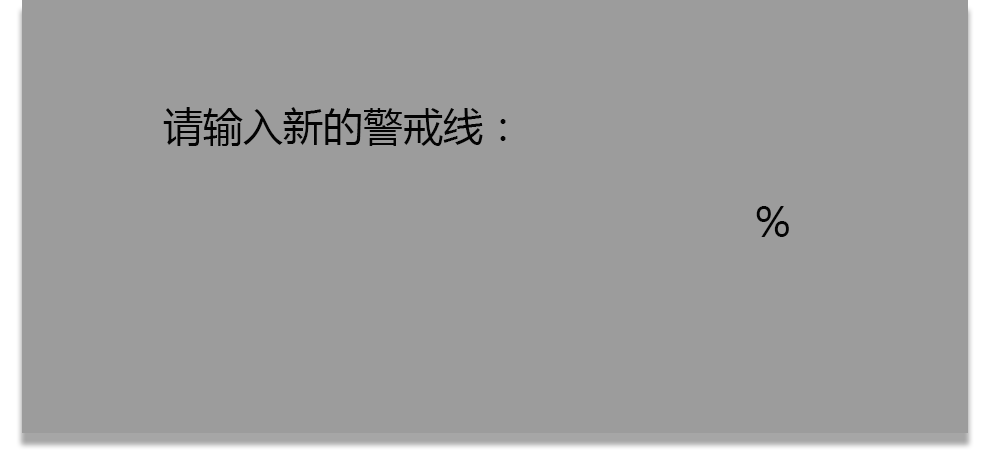
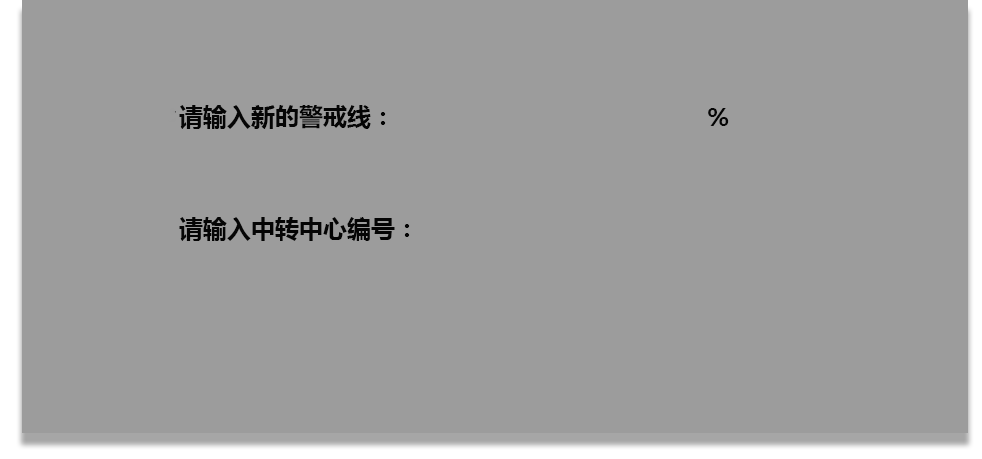
为了同步高露的

diff --git a/LogisticManageSystem/Client/src/main/java/edu/nju/lms/presentation/mouseListener/SetWarningListener.java b/LogisticManageSystem/Client/src/main/java/edu/nju/lms/presentation/mouseListener/SetWarningListener.java
@@ -1,0 +1,33 @@
+package edu.nju.lms.presentation.mouseListener;
+
+import java.awt.Component;
+import java.awt.event.MouseEvent;
+import java.util.ArrayList;
+
+import edu.nju.lms.businessLogicService.impl.transport.TransportController;
+import edu.nju.lms.businessLogicService.impl.warehouse.WarehouseController;
+import edu.nju.lms.data.ResultMessage;
+import edu.nju.lms.presentation.UIController;
+import edu.nju.lms.presentation.components.MyDialog;
+import edu.nju.lms.presentation.components.MyTextField;
+
+public class SetWarningListener extends ButtonListener{
+
+	public SetWarningListener(ArrayList<Component> units, UIController controller, Component button) {
+		super(units, controller, button);
+	}
+
+	@Override
+	public void mouseReleased(MouseEvent e) {
+		MyTextField warning  = (MyTextField) units.get(0);
+		MyTextField num = (MyTextField) units.get(1);
+		WarehouseController warehouse = controller.getWarehouseController();
+		ResultMessage result = warehouse.setCordon(Integer.parseInt(warning.getText())/100.0, num.getText());
+		if(result.isSuccess()) {
+			new MyDialog("addSuccess");
+		}else{
+			new MyDialog(result.getErrorMessage(),true);
+		}
+	}
+
+}

diff --git a/LogisticManageSystem/Client/src/main/java/edu/nju/lms/presentation/mouseListener/ButtonListener.java b/LogisticManageSystem/Client/src/main/java/edu/nju/lms/presentation/mouseListener/ButtonListener.java
@@ -25,25 +25,25 @@ public abstract class ButtonListener implements MouseListener{
 	public void mouseClicked(MouseEvent e) {
 		button.setIn(false);
 		button.setPressed(true);
-		button.repaint();
+		controller.getFrame().repaint();
 	}
 
 	public void mousePressed(MouseEvent e) {
 		button.setIn(false);
 		button.setPressed(true);
-		button.repaint();
+		controller.getFrame().repaint();
 	}
 
 	abstract public void mouseReleased(MouseEvent e);
 
 	public void mouseEntered(MouseEvent e) {
 		button.setIn(true);
-		button.repaint();
+		controller.getFrame().repaint();
 	}
 
 	public void mouseExited(MouseEvent e) {
 		button.setIn(false);
 		button.setPressed(false);
-		button.repaint();
+		controller.getFrame().repaint();
 	}
 }
